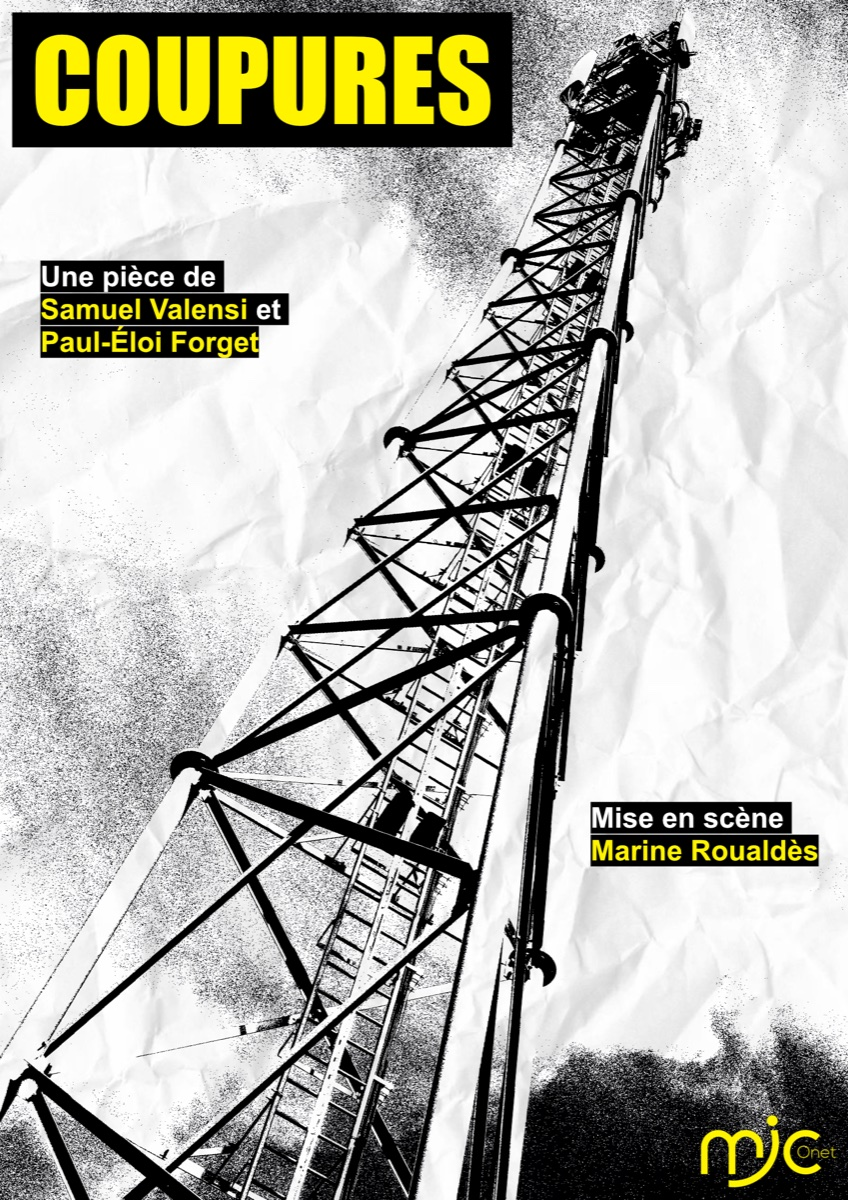
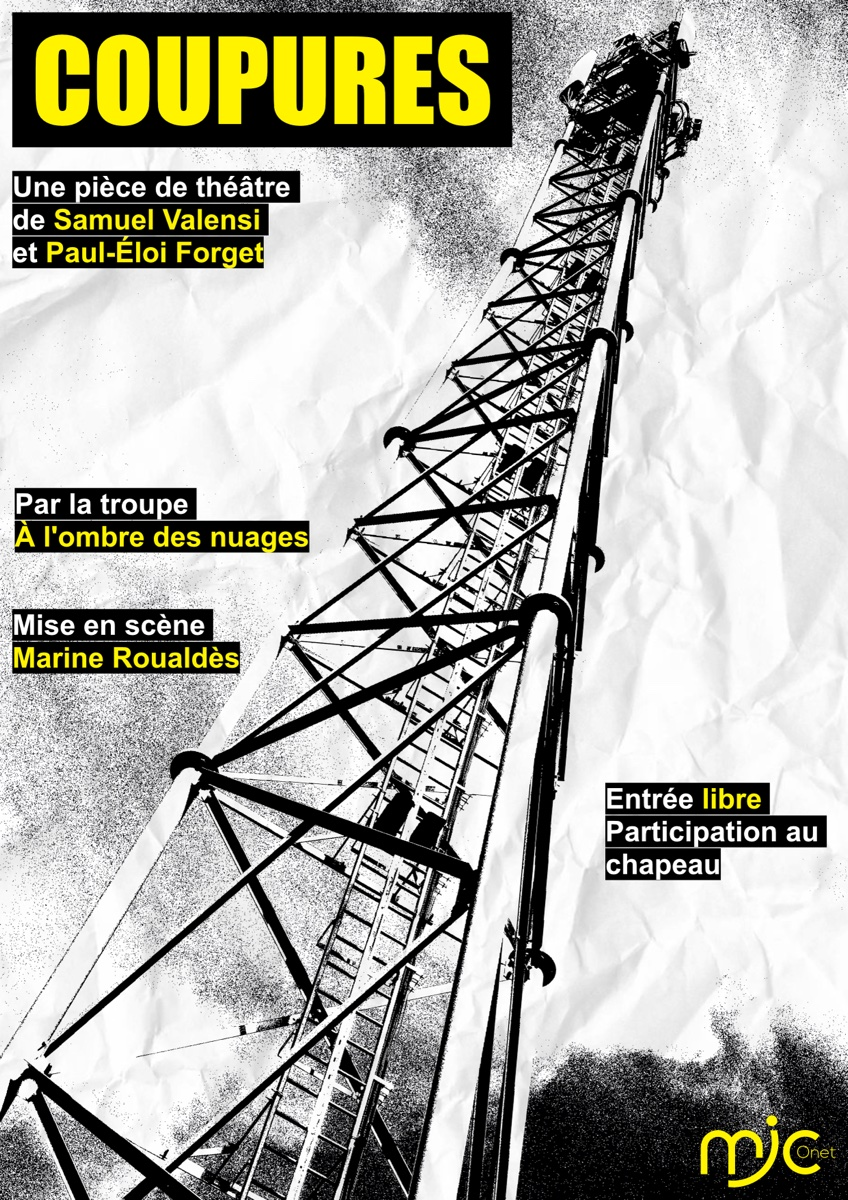
Publier le site

diff --git a/spectacles/index.html b/spectacles/index.html
@@ -37,7 +37,7 @@
     <ul class="programme shows">
         <li>
             <a class="thumbnail" href="/spectacles/coupures/" tabindex="-1" aria-hidden="true">
-              <img src="/images/affiche-coupures_hu_59b33aafb380df95.jpg" srcset="/images/affiche-coupures_hu_59b33aafb380df95.jpg 1x, /images/affiche-coupures_hu_a20af80ca618513.jpg 2x" width="240" height="340" alt="">
+              <img src="/images/affiche-coupures_hu_90295792002042e6.jpg" srcset="/images/affiche-coupures_hu_90295792002042e6.jpg 1x, /images/affiche-coupures_hu_7a7e19507296bba1.jpg 2x" width="240" height="340" alt="">
             </a>
           <div>
             <h2><a href="/spectacles/coupures/">Coupures</a></h2>
